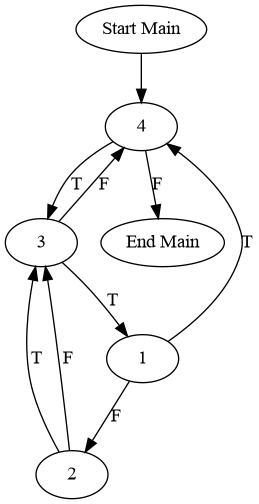
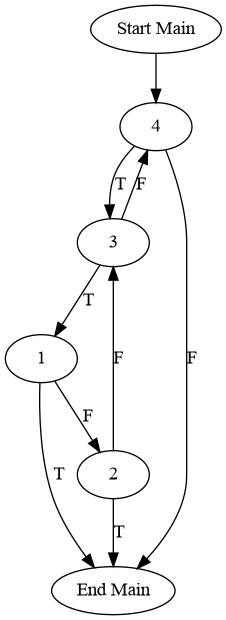
Return statements working

diff --git a/Parser/linkedList.c b/Parser/linkedList.c
@@ -22,6 +22,7 @@ Node    *head = NULL; //keeps track of nodes when poped out of stack.
 Node    *breakPoint = NULL;
 Node    *helperNode = NULL;
 Node    *tempNode = NULL;
+Node    *terminalNode = NULL;
 bool    startNode = true;
 int     stack_count = 0;
 
@@ -94,12 +95,12 @@ void populate_dot_file(FILE *dot_file, char* funName) {
     if (head != NULL) {
         Node *temp = head; // Start traversal from head
         while (temp != NULL) {
-            if (temp->true_path != NULL)
+            if (temp->true_path != NULL && temp->true_path != terminalNode)
                 fprintf(dot_file, "\"%d\" -> \"%d\" [label = \"T\"];\n", temp->branch_nb, temp->true_path->branch_nb);
             else
                 fprintf(dot_file, "\"%d\" -> \"End %s\" [label = \"T\"];\n", temp->branch_nb, funName);
 
-            if (temp->false_path != NULL)
+            if (temp->false_path != NULL && temp->false_path != terminalNode)
                 fprintf(dot_file, "\"%d\" -> \"%d\" [label = \"F\"];\n", temp->branch_nb, temp->false_path->branch_nb);
             else
                 fprintf(dot_file, "\"%d\" -> \"End %s\" [label = \"F\"];\n", temp->branch_nb, funName);
@@ -171,4 +172,16 @@ Node* find_loop(int loopNo){
         temp = temp->next_node;
     }
     return tempNode;
+}
+
+void terminateNode(){
+    if(terminalNode == NULL){
+        terminalNode = makeNode();
+        terminalNode->branch_nb = -1;
+    }
+    if(top != NULL && top->true_path == NULL){
+        top->true_path = terminalNode;
+    }else{
+        join_nodes(terminalNode);
+    }   
 }
